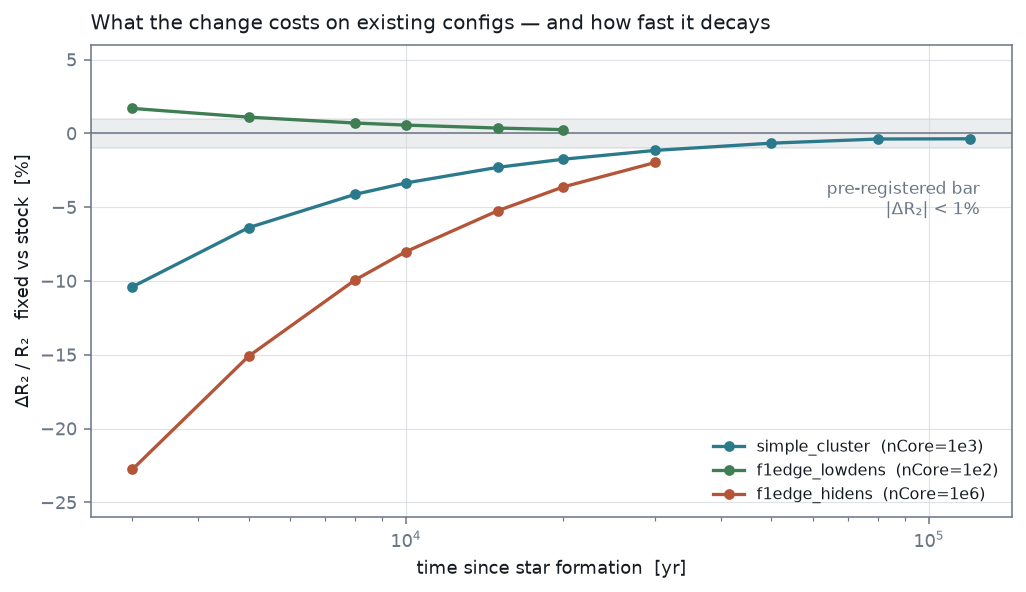
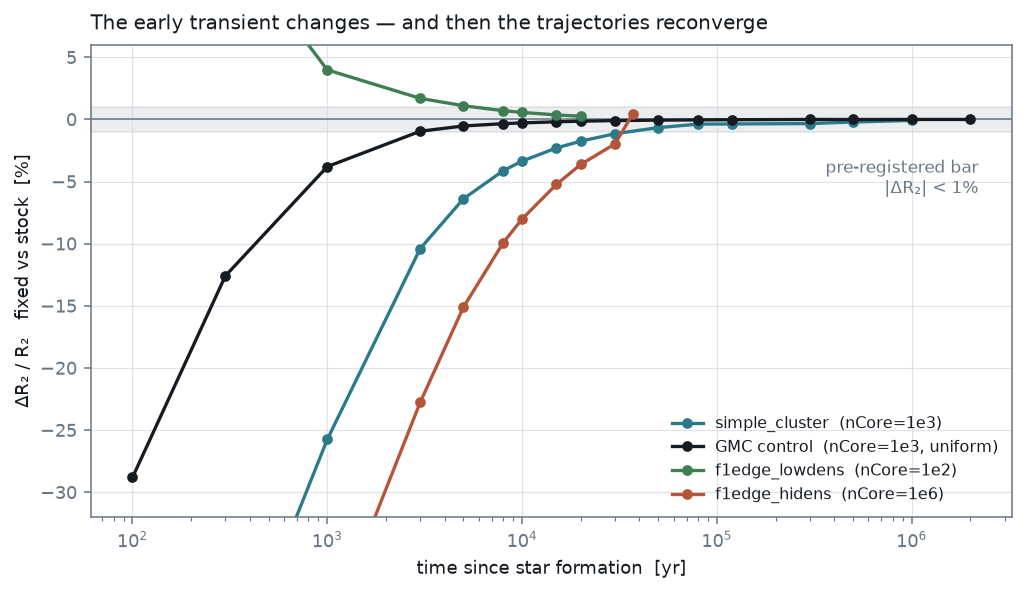
phase1a-init: G7 -- figures, manifest and status reflect the adopted bar
The decision figure stopped at 1.2e5 yr, which is exactly where the
interesting part starts. It now carries all four configs to their natural ends
and adds the GMC control, so the shape of the result is visible rather than
asserted: every curve converges on zero. Retitled to say that -- "The early
transient changes, and then the trajectories reconverge" -- because the old
title ("what the change costs") described only the left half of the plot.

Honest caveat on the figure: simple_cluster leaves the bottom of the y-axis
between ~300 and ~700 yr, where it is steeper than -32%. The axis was already
clipped that way; I widened it but did not rescale to fit the earliest points,
since that would flatten the decay the plot exists to show.

FINDINGS' open "maintainer decision" paragraph now records how it was resolved,
with the two facts that only existed once both long configs reached their TRUE
natural end (the earlier GMC fixed arms were SIGTERM-truncated at 8.2e4 yr):
the arms converge to -0.001% at 2 Myr rather than merely staying inside a
tolerance, and the fix is 16% faster. The original paragraph is kept above the
resolution rather than rewritten -- it records what was genuinely uncertain at
the time, which is worth preserving now that it is not.

DOC_STATUS's row follows.

diff --git a/docs/dev/phase1a-init/harness/make_decision_figures.py b/docs/dev/phase1a-init/harness/make_decision_figures.py
@@ -144,27 +144,33 @@ def fig_m43():
 # ------------------------------------------------------------- the decision
 def fig_decision():
     """dR2/R2 (fixed vs stock) at matched t, the number the decision rests on."""
-    pairs = [("simple_cluster  (nCore=1e3)", "g2_longsimple_stock", "g2_longsimple_fixed", FIXED),
+    pairs = [("simple_cluster  (nCore=1e3)", "g2_1myr_simple_stock", "g2_1myr_simple_fixed", FIXED),
+             ("GMC control  (nCore=1e3, uniform)", "gmc_control", "g2_gmc_fixed_full", INK),
              ("f1edge_lowdens  (nCore=1e2)", "g2_lowdens_stock", "g2_lowdens_fixed", OBS),
              ("f1edge_hidens  (nCore=1e6)", "g2_longhidens_stock", "g2_longhidens_fixed", STOCK)]
     fig, ax = plt.subplots(figsize=(7.4, 4.3))
     ax.axhspan(-1, 1, color=MUTED, alpha=0.13, zorder=0)
-    ax.text(1.25e5, -3.1, "pre-registered bar\n|ΔR₂| < 1%", color=MUTED, fontsize=8.5,
+    ax.text(2.2e6, -3.1, "pre-registered bar\n|ΔR₂| < 1%", color=MUTED, fontsize=8.5,
             ha="right", va="top")
     ax.axhline(0, color=MUTED, lw=0.8)
     for label, s_stem, f_stem, col in pairs:
         ts, rs = series(s_stem)
         tf, rf = series(f_stem)
-        grid = [t for t in (3e3, 5e3, 8e3, 1e4, 1.5e4, 2e4, 3e4, 5e4, 8e4, 1.2e5)
-                if t <= min(ts[-1], tf[-1])]
+        # ends at the latest time BOTH arms cover — the "or the end of the run"
+        # clause of the adopted bar (PLAN.md §4)
+        first, last = max(ts[0], tf[0]), min(ts[-1], tf[-1])
+        grid = [t for t in (1e2, 3e2, 1e3, 3e3, 5e3, 8e3, 1e4, 1.5e4, 2e4, 3e4, 5e4, 8e4,
+                            1.2e5, 3e5, 5e5, 1e6, 2e6) if first <= t <= last]
+        if grid and grid[-1] < last:
+            grid.append(last)
         d = [(t, 100 * (interp(tf, rf, t) - interp(ts, rs, t)) / interp(ts, rs, t)) for t in grid]
         ax.plot([p[0] for p in d], [p[1] for p in d], "o-", color=col, lw=1.7, ms=4.5, label=label)
     ax.set_xscale("log")
     ax.set_xlabel("time since star formation  [yr]")
     ax.set_ylabel("ΔR₂ / R₂   fixed vs stock  [%]")
-    ax.set_ylim(-26, 6)
+    ax.set_ylim(-32, 6)
     ax.legend(loc="lower right", fontsize=8)
-    ax.set_title("What the change costs on existing configs — and how fast it decays",
+    ax.set_title("The early transient changes — and then the trajectories reconverge",
                  loc="left", fontsize=10.5, color=INK, pad=8)
     save(fig, "decision_shift.png")
 

diff --git a/docs/dev/phase1a-init/FINDINGS.md b/docs/dev/phase1a-init/FINDINGS.md
@@ -388,6 +388,29 @@ early-phase shift — or re-site a bar that was written to measure at the instan
 phase 1a hands off — is a maintainer decision, recorded rather than
 self-approved.
 
+**Resolved 2026-08-05 — the bar was re-sited, by maintainer sign-off.** The
+adopted G2 bar (PLAN §4) is `|ΔR2| < 10%` at 1 Myr **or the end of the run if
+it terminates earlier**, *and* the stopping fate unchanged. All four configs
+pass; the worst is `f1edge_hidens` at +0.44%, 23x inside. Two facts that only
+appeared once both long configs were run to their **true** natural end —
+earlier fixed-arm GMC runs had been SIGTERM-truncated at 8.2e4 yr and
+misreported as ending there:
+
+- The trajectories do not merely stay inside a tolerance, they **converge**.
+  GMC control ΔR2: −28.8% @100 yr → −0.95% @3e3 → −0.28% @1e4 → −0.037% @8e4 →
+  −0.002% @1 Myr → **−0.001% @2 Myr**, with Δv2 +0.014% at 2 Myr.
+  `simple_cluster` reaches −0.078% at 1 Myr. The disagreement is confined to
+  the early transient, which is the part this document argues stock gets wrong.
+- The change is **16% faster** end-to-end (14m37s → 12m18s on
+  `simple_cluster` to `stop_t=0.1`, each arm alone on the container), almost
+  all of it in phase 1b, which the change does not touch. Stock enters 1b with
+  `v2_ODE/v2_alpha = 1.3167`, the fix with `1.0546` — a 1a exit state that is
+  already close to α-consistent is cheaper for 1b to continue from.
+
+Note for the record: the GMC control passes the *original* 1%-at-3e3-yr bar
+(−0.949%) and is the only config that does — i.e. that bar was met by exactly
+the one scale the `vd = -1e8` constant was tuned for.
+
 **Implementation is specified in `PLAN.md`; its §3 decisions were settled on
 2026-08-04** — schedule uncapped with `phase1a_segFrac = 0` as the fixed-segment
 fallback, override *and* the `EarlyPhaseApproximation` flag deleted outright

diff --git a/docs/dev/DOC_STATUS.md b/docs/dev/DOC_STATUS.md
@@ -52,7 +52,7 @@ deleted by the maintainer (`9459234a`, 2026-07-06).
 | `transition/cleanroom/` | ✅ concluded — "transition is geometric, not thermal" (live evidence for pdv-trigger) | `FINDINGS.md` | 2026-07-06 |
 | `transition/pt4/` | ✅ concluded audits (H1–H5 + R1 shadow) — feed pdv-trigger | `README.md` | 2026-07-06 |
 | `rosette-cf/` | ✅ COMPLETE — 72/72 Cf-scan arms ran in-container (exit 0); 72 gzipped raw dicts committed under `data/` for offline reduction; fallback match PROVISIONAL (§11) | `README.md` | 2026-07-14 |
-| `phase1a-init/` | 🔵 ACTIONABLE — M43-scale early-phase artifact fixed and gated on branch `hotfix/early-approximations` (log-spaced phase-1a segments + `vd=-1e8` override deleted); G1a/G1b/G2-vs-reference/G3/eps PASS, but the pre-registered stock-vs-fixed bar is missed at 3e3 yr and 2 golden tests await a re-baseline decision | `PLAN.md`, `data/gate_results.csv` | 2026-08-04 |
+| `phase1a-init/` | 🔵 ACTIONABLE — M43-scale early-phase artifact fixed and gated on branch `hotfix/early-approximations` (age-scaled phase-1a segments via `phase1a_segFrac` + `vd=-1e8` override deleted); all gates PASS against the G2 bar adopted 2026-08-05 (`|ΔR2| < 10%` at 1 Myr or end of run + fate unchanged), arms converge to −0.001% at 2 Myr, and the fix runs 16% faster; three goldens on the stock 1a exit state re-baselined | `PLAN.md`, `data/gate_results.csv` | 2026-08-05 |
 | `cooling/` | 🟡 PARTIAL — two side items shipped; loader refactor PR-1–4 pending | `refactor-audit.md` | 2026-06-22 |
 | `performance/` | 📘 reference (perf history A→D + F1) · 🟡 HOTPATH §F1-cousin/§F5 open | `BUBBLE_LUMINOSITY_PERFORMANCE.md` | 2026-06-22 |
 | `shell-solver/` | 🟡 MIXED — overflow fix ✅ shipped; MIGRATION doc is a 🟠 correction (mxstep diagnosis retracted) | `OVERFLOW_FIX_PLAN.md` | 2026-07-06 |
